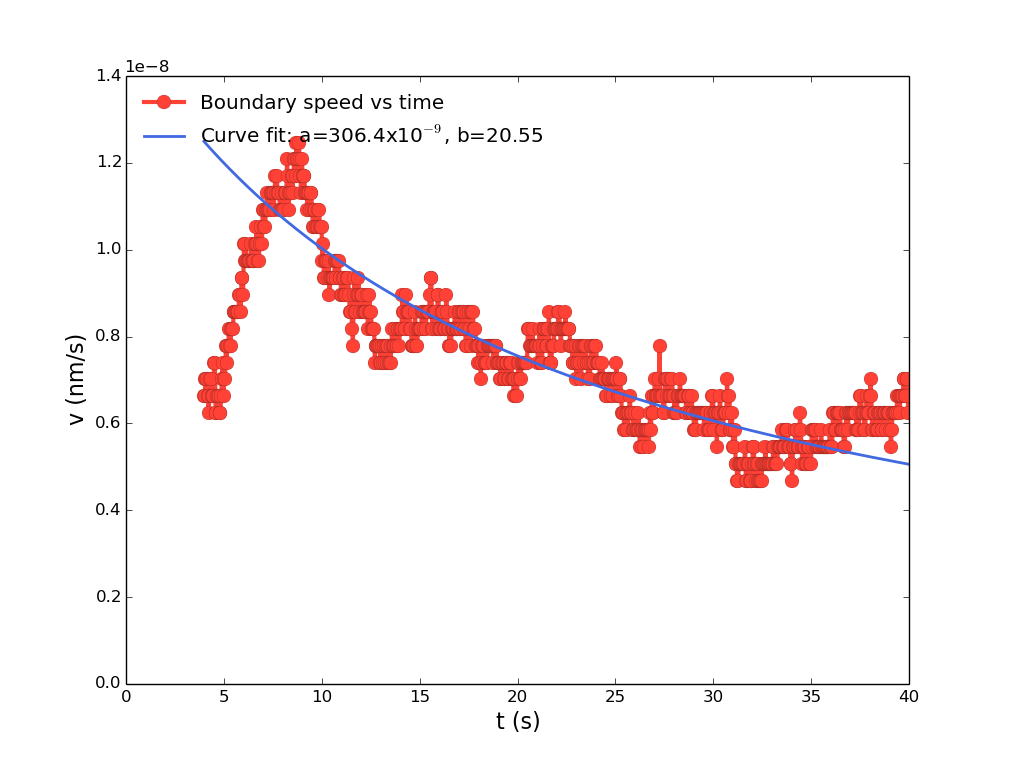
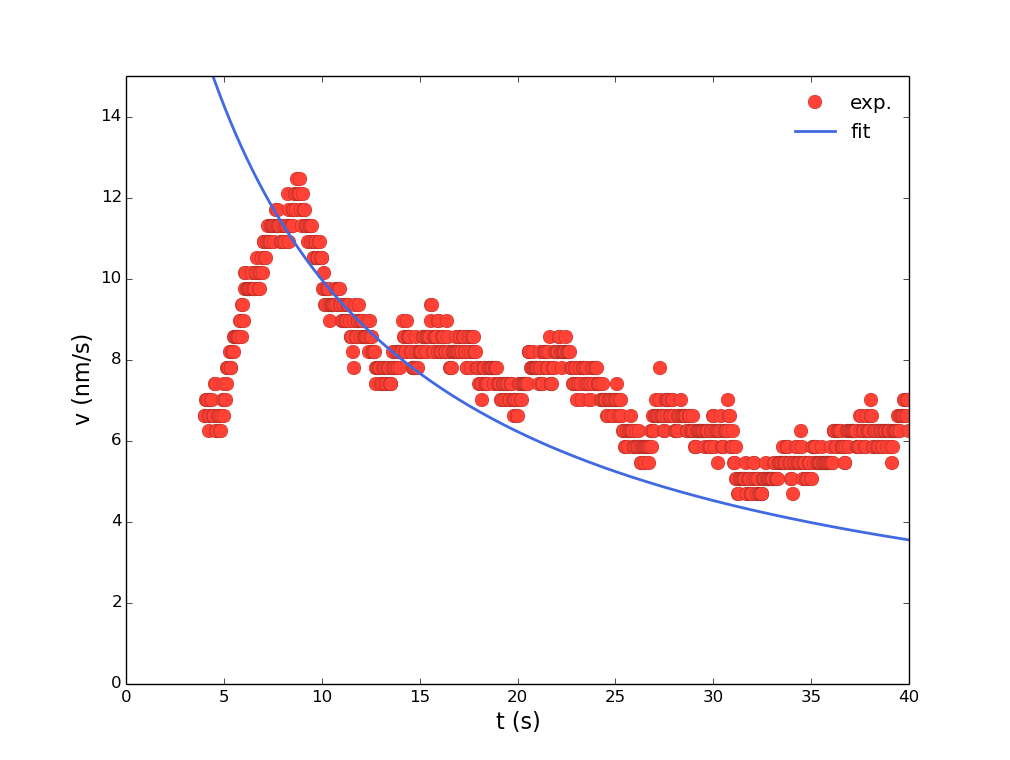
Mise a jour

diff --git a/plot-result.py b/plot-result.py
@@ -2,6 +2,7 @@ import numpy as np
 import matplotlib.pyplot as plt
 from scipy.optimize import curve_fit
 import matplotlib as mpl
+import matplotlib.ticker as ticker  
 
 def meanaveraging(x, N):
 	return np.convolve(x, np.ones((N,))/N,'valid')
@@ -33,11 +34,11 @@ s2=np.diff(meanaveraging(np.abs(t0[:,0]),g))*1200e-9*0.8/616/0.04		#calculate th
 s=[s0,s1,s2]
 t=[t0[g::1,1],t0[g::g,1],t0[g-1:-1,1]]										#time
 print s2.shape, t[2].shape
-i=2
+i=0
 A=np.vstack((t[i],s[i]))
 
-Aa=A[:,A[0,:]>7.2]														#select the data range for fitting
-Ab=Aa[:,Aa[0,:]<30]
+Aa=A[:,A[0,:]>7]														#select the data range for fitting
+Ab=Aa[:,Aa[0,:]<15]
 #print Ab
 
 def func(x, a,b):														#fitting function
@@ -47,17 +48,18 @@ popt, pcov = curve_fit(func, Ab[0,:], Ab[1,:])							#get the fitting parameters
 print(popt)
 #a=ax1.plot(t0[:,1], t0[:,0], label=r'Displacement vs time')	
 
-a=ax1.plot(t[i], s[i], label=r'Boundary speed vs time')				#plot
-b=ax1.plot(t[i], func(t[i],popt[0],popt[1]),label='Curve fit: a='+str(np.around(popt[0]*1e9,decimals=1))+'x10$^{-9}$, b='+str(np.around(popt[1],decimals=2)))
+a=ax1.plot(t[i], s[i]*1e9, label=r'exp.')				#plot
+b=ax1.plot(t[i], func(t[i],popt[0]*1e9,popt[1]),label='fit')
 plt.setp(b,color='#4169E1',linewidth=2,alpha=1,ms=10,mew=0.1,ls='-',markevery=1)
-plt.setp(a,color='#FF4136',linewidth=3,alpha=1,marker='o',ms=10,mew=0.1,ls='-',markevery=1)
+plt.setp(a,color='#FF4136',linewidth=0,alpha=1,marker='o',ms=10,mew=0.1,markevery=1)
 ax1.set_xlabel(r't (s)', fontsize=16)
 ax1.set_ylabel(r'v (nm/s)',fontsize=16)
+#shift = 220                                                                                                                                                                                                                                                                   
+#ticks = ticker.FuncFormatter(lambda x, pos: '{0:g}'.format(x+shift))                                                                                                                                                                                                           
+#ax1.xaxis.set_major_formatter(ticks) 
+ax1.axis([0,40,0,15])
 plt.tick_params(labelsize=12)
 ax1.axhline(linewidth=0.5)   
-plt.legend(loc='upper left', frameon=False, numpoints=1)
-
-
-
+plt.legend(loc='upper right', frameon=False, numpoints=1)
 plt.show()
 
